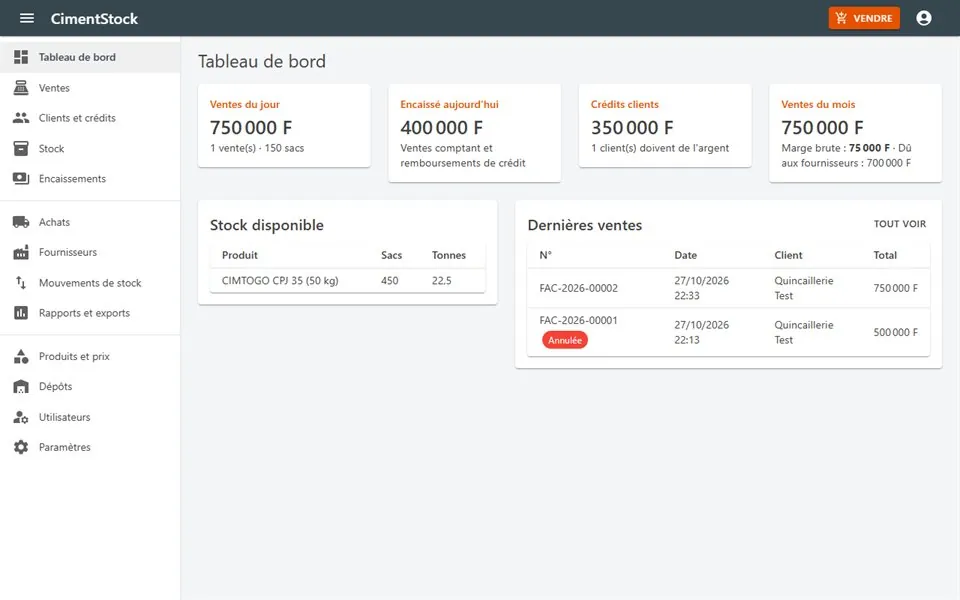
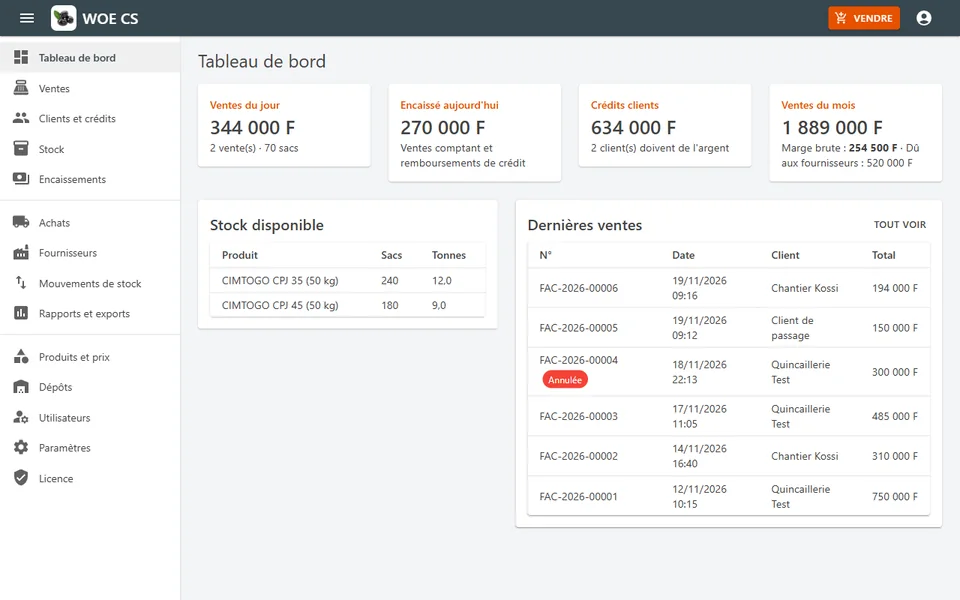
Portfolio : CimentStock devient WOE CS, ajoute la carte Lotus QS
Nouvelle capture de WOE CS, carte Lotus QS (15 000 F par mois),
ligne Fondateur à jour, page anglaise régénérée.

diff --git a/index.html b/index.html
@@ -451,7 +451,8 @@ h1,h2,h3,p,a,span{overflow-wrap:break-word}
 </div>
 <h3 class="sub" data-en="Business applications">Applications métier</h3>
 <div class="grid sites apps">
-<div class="card site"><img src="cimentstock.webp" alt="Tableau de bord de CimentStock : ventes du jour, crédits clients, stock et dernières ventes" loading="lazy" width="960" height="600"><div class="sb"><span class="st">DEKOPI GOLD</span><h3>CimentStock</h3><p data-en="The first software published by DEKOPI GOLD, my company. Purchase, sales and stock management for cement businesses: cash or credit sales, PDF invoices, weighted average cost, multiple warehouses and daily backups. Starts by itself when the PC is switched on, runs locally, with no internet needed. Free 30-day trial, then a licence at 12,000 F per month.">Premier logiciel édité par DEKOPI GOLD, ma société. Gestion des achats, ventes et stock pour les commerces de ciment : ventes comptant ou à crédit, factures PDF, coût moyen pondéré, plusieurs dépôts et sauvegarde quotidienne. Démarre tout seul à l’allumage du PC, fonctionne en local, sans internet. Essai gratuit de 30 jours, puis licence à 12 000 F par mois.</p><span class="chip">Blazor</span><span class="chip">.NET</span><span class="chip">SQLite</span><span class="chip" data-en="Business app">Application métier</span><a class="vis" href="https://wa.me/22891512041?text=Bonjour%20Pierre%2C%20je%20souhaite%20une%20d%C3%A9monstration%20de%20CimentStock." data-href-en="https://wa.me/22891512041?text=Hello%20Pierre%2C%20I%20would%20like%20a%20demo%20of%20CimentStock." target="_blank" rel="noopener" data-en="Request a demo on WhatsApp →">Demander une démo sur WhatsApp →</a></div></div>
+<div class="card site"><img src="cimentstock.webp" alt="Tableau de bord de WOE CS : ventes du jour, crédits clients, stock et dernières ventes" loading="lazy" width="960" height="600"><div class="sb"><span class="st">DEKOPI GOLD</span><h3>WOE CS</h3><p data-en="WOE CS, formerly CimentStock, is the first software published by DEKOPI GOLD, my company. Purchase, sales and stock management for cement businesses: cash or credit sales, PDF invoices, weighted average cost, multiple warehouses and daily backups. Starts by itself when the PC is switched on, runs locally, with no internet needed. Free 30-day trial, then a licence at 12,000 F per month.">WOE CS, anciennement CimentStock, est le premier logiciel édité par DEKOPI GOLD, ma société. Gestion des achats, ventes et stock pour les commerces de ciment : ventes comptant ou à crédit, factures PDF, coût moyen pondéré, plusieurs dépôts et sauvegarde quotidienne. Démarre tout seul à l’allumage du PC, fonctionne en local, sans internet. Essai gratuit de 30 jours, puis licence à 12 000 F par mois.</p><span class="chip">Blazor</span><span class="chip">.NET</span><span class="chip">SQLite</span><span class="chip" data-en="Business app">Application métier</span><a class="vis" href="https://wa.me/22891512041?text=Bonjour%20Pierre%2C%20je%20souhaite%20une%20d%C3%A9monstration%20de%20WOE%20CS." data-href-en="https://wa.me/22891512041?text=Hello%20Pierre%2C%20I%20would%20like%20a%20demo%20of%20WOE%20CS." target="_blank" rel="noopener" data-en="Request a demo on WhatsApp →">Demander une démo sur WhatsApp →</a></div></div>
+<div class="card site"><img src="lotusqs.webp" alt="Tableau de bord de Lotus QS : ventes du jour, argent encaissé, crédits clients et alerte de stock bas" loading="lazy" width="960" height="600"><div class="sb"><span class="st">DEKOPI GOLD</span><h3>Lotus QS</h3><p data-en="The second software published by DEKOPI GOLD, for hardware stores. Purchase, sales and stock management for shops with many items: reference, category and barcode on each item, sales by the metre or kilo, barcode scanning, Excel import of the catalogue, cash or credit sales, PDF invoices and daily backups. Runs locally, with no internet needed. Free 30-day trial, then a licence at 15,000 F per month.">Deuxième logiciel édité par DEKOPI GOLD, pour les quincailleries. Gestion des achats, ventes et stock des magasins qui ont beaucoup d’articles : référence, catégorie et code-barres sur chaque article, ventes au mètre ou au kilo, scan au lecteur, import Excel du catalogue, ventes comptant ou à crédit, factures PDF et sauvegarde quotidienne. Fonctionne en local, sans internet. Essai gratuit de 30 jours, puis licence à 15 000 F par mois.</p><span class="chip">Blazor</span><span class="chip">.NET</span><span class="chip">SQLite</span><span class="chip" data-en="Business app">Application métier</span><a class="vis" href="https://wa.me/22891512041?text=Bonjour%20Pierre%2C%20je%20souhaite%20une%20d%C3%A9monstration%20de%20Lotus%20QS." data-href-en="https://wa.me/22891512041?text=Hello%20Pierre%2C%20I%20would%20like%20a%20demo%20of%20Lotus%20QS." target="_blank" rel="noopener" data-en="Request a demo on WhatsApp →">Demander une démo sur WhatsApp →</a></div></div>
 <a class="card site" href="https://assimeto.pages.dev/" target="_blank" rel="noopener"><img src="assimeto.webp" alt="Trois écrans d’ASSIMETO : liste de courses, plats réalisables et fiche recette" loading="lazy" width="960" height="600"><div class="sb"><span class="st">DEKOPI GOLD</span><h3>ASSIMETO</h3><p data-en="Installable mobile app (PWA) built at DEKOPI GOLD, first for my family’s grocery shopping in Lomé: shopping list by market, supermarket and corner shop with FCFA totals, fridge and pantry stock, Togolese dishes you can cook with what is at home, and storage tips. Works offline, syncs across several phones and suggests dishes with AI.">Appli mobile installable (PWA) développée chez DEKOPI GOLD, d’abord pour les courses de ma famille à Lomé : liste par marché, supermarché et boutique avec total en FCFA, stock du frigo et de la réserve, plats togolais réalisables avec ce qu’il y a à la maison et conseils de conservation. Fonctionne sans internet, se partage entre plusieurs téléphones et propose des idées de plats par IA.</p><span class="chip">PWA</span><span class="chip">JavaScript</span><span class="chip">Firebase</span><span class="chip" data-en="AI (Claude)">IA (Claude)</span><span class="chip" data-en="Offline">Hors ligne</span><span class="vis" data-en="View the app →">Voir l’appli →</span></div></a>
 </div>
 <h3 class="sub" data-en="Digital products">Produits numériques</h3>
@@ -472,7 +473,7 @@ h1,h2,h3,p,a,span{overflow-wrap:break-word}
 <div class="head"><small data-en="Experience">Parcours</small><h2 data-en="Experience and education">Expérience et formation</h2></div>
 <div class="tl">
 <div><h3 data-en="Tax auditor — OTR">Vérificateur fiscal — OTR</h3><small data-en="Lomé · Sep 2026 – present">Lomé · sept. 2026 – aujourd’hui</small><p data-en="Accounting audits and review of companies’ tax returns.">Vérification de comptabilité et contrôle des déclarations fiscales des entreprises.</p></div>
-<div><h3 data-en="Founder — DEKOPI GOLD">Fondateur — DEKOPI GOLD</h3><small data-en="Lomé · 2025 – present">Lomé · 2025 – aujourd’hui</small><p data-en="Tech company publishing CimentStock, purchase, sales and stock management software for cement businesses, and ASSIMETO, a grocery and home stock app.">Entreprise tech qui édite CimentStock, logiciel de gestion des achats, ventes et stocks pour les commerces de ciment, et ASSIMETO, appli de courses et de stock pour la maison.</p></div>
+<div><h3 data-en="Founder — DEKOPI GOLD">Fondateur — DEKOPI GOLD</h3><small data-en="Lomé · 2025 – present">Lomé · 2025 – aujourd’hui</small><p data-en="Tech company publishing WOE CS (formerly CimentStock) and Lotus QS, purchase, sales and stock management software for cement businesses and hardware stores, and ASSIMETO, a grocery and home stock app.">Entreprise tech qui édite WOE CS (ex-CimentStock) et Lotus QS, logiciels de gestion des achats, ventes et stocks pour les commerces de ciment et les quincailleries, et ASSIMETO, appli de courses et de stock pour la maison.</p></div>
 <div><h3 data-en="IT Focal Point, tax filing management — OTR">Point focal IT, gestion de déclaration fiscale — OTR</h3><small data-en="Kara · Feb 2025 – Sep 2026">Kara · févr. 2025 – sept. 2026</small><p data-en="Main technical contact between business teams and the IT department.">Interlocuteur technique entre les équipes métier et la direction informatique.</p></div>
 <div><h3 data-en="IT support technician — OTR">Technicien de support informatique — OTR</h3><small data-en="Kara · Jan 2025 – Sep 2026">Kara · janv. 2025 – sept. 2026</small><p data-en="User support, network cabling, preventive and corrective maintenance of the equipment.">Support utilisateurs, câblage réseau, maintenance préventive et curative du parc.</p></div>
 <div><h3 data-en="Freelance web developer — IMMOBTRADER">Développeur web freelance — IMMOBTRADER</h3><small data-en="France, remote · Jan 2024 – present">France, à distance · janv. 2024 – aujourd’hui</small><p data-en="Front-end and back-end design and maintenance of an international real estate platform.">Conception et maintenance front-end et back-end d’une plateforme immobilière internationale.</p></div>

diff --git a/en/index.html b/en/index.html
@@ -451,7 +451,8 @@ h1,h2,h3,p,a,span{overflow-wrap:break-word}
 </div>
 <h3 class="sub">Business applications</h3>
 <div class="grid sites apps">
-<div class="card site"><img src="../cimentstock.webp" alt="CimentStock dashboard: daily sales, customer credit, stock and latest sales" loading="lazy" width="960" height="600"><div class="sb"><span class="st">DEKOPI GOLD</span><h3>CimentStock</h3><p>The first software published by DEKOPI GOLD, my company. Purchase, sales and stock management for cement businesses: cash or credit sales, PDF invoices, weighted average cost, multiple warehouses and daily backups. Starts by itself when the PC is switched on, runs locally, with no internet needed. Free 30-day trial, then a licence at 12,000 F per month.</p><span class="chip">Blazor</span><span class="chip">.NET</span><span class="chip">SQLite</span><span class="chip">Business app</span><a class="vis" href="https://wa.me/22891512041?text=Hello%20Pierre%2C%20I%20would%20like%20a%20demo%20of%20CimentStock." target="_blank" rel="noopener">Request a demo on WhatsApp →</a></div></div>
+<div class="card site"><img src="../cimentstock.webp" alt="WOE CS dashboard: daily sales, customer credit, stock and latest sales" loading="lazy" width="960" height="600"><div class="sb"><span class="st">DEKOPI GOLD</span><h3>WOE CS</h3><p>WOE CS, formerly CimentStock, is the first software published by DEKOPI GOLD, my company. Purchase, sales and stock management for cement businesses: cash or credit sales, PDF invoices, weighted average cost, multiple warehouses and daily backups. Starts by itself when the PC is switched on, runs locally, with no internet needed. Free 30-day trial, then a licence at 12,000 F per month.</p><span class="chip">Blazor</span><span class="chip">.NET</span><span class="chip">SQLite</span><span class="chip">Business app</span><a class="vis" href="https://wa.me/22891512041?text=Hello%20Pierre%2C%20I%20would%20like%20a%20demo%20of%20WOE%20CS." target="_blank" rel="noopener">Request a demo on WhatsApp →</a></div></div>
+<div class="card site"><img src="../lotusqs.webp" alt="Lotus QS dashboard: daily sales, cash collected, customer credit and low-stock alert" loading="lazy" width="960" height="600"><div class="sb"><span class="st">DEKOPI GOLD</span><h3>Lotus QS</h3><p>The second software published by DEKOPI GOLD, for hardware stores. Purchase, sales and stock management for shops with many items: reference, category and barcode on each item, sales by the metre or kilo, barcode scanning, Excel import of the catalogue, cash or credit sales, PDF invoices and daily backups. Runs locally, with no internet needed. Free 30-day trial, then a licence at 15,000 F per month.</p><span class="chip">Blazor</span><span class="chip">.NET</span><span class="chip">SQLite</span><span class="chip">Business app</span><a class="vis" href="https://wa.me/22891512041?text=Hello%20Pierre%2C%20I%20would%20like%20a%20demo%20of%20Lotus%20QS." target="_blank" rel="noopener">Request a demo on WhatsApp →</a></div></div>
 <a class="card site" href="https://assimeto.pages.dev/" target="_blank" rel="noopener"><img src="../assimeto.webp" alt="Three ASSIMETO screens: shopping list, dishes you can cook and recipe card" loading="lazy" width="960" height="600"><div class="sb"><span class="st">DEKOPI GOLD</span><h3>ASSIMETO</h3><p>Installable mobile app (PWA) built at DEKOPI GOLD, first for my family’s grocery shopping in Lomé: shopping list by market, supermarket and corner shop with FCFA totals, fridge and pantry stock, Togolese dishes you can cook with what is at home, and storage tips. Works offline, syncs across several phones and suggests dishes with AI.</p><span class="chip">PWA</span><span class="chip">JavaScript</span><span class="chip">Firebase</span><span class="chip">AI (Claude)</span><span class="chip">Offline</span><span class="vis">View the app →</span></div></a>
 </div>
 <h3 class="sub">Digital products</h3>
@@ -472,7 +473,7 @@ h1,h2,h3,p,a,span{overflow-wrap:break-word}
 <div class="head"><small>Experience</small><h2>Experience and education</h2></div>
 <div class="tl">
 <div><h3>Tax auditor — OTR</h3><small>Lomé · Sep 2026 – present</small><p>Accounting audits and review of companies’ tax returns.</p></div>
-<div><h3>Founder — DEKOPI GOLD</h3><small>Lomé · 2025 – present</small><p>Tech company publishing CimentStock, purchase, sales and stock management software for cement businesses, and ASSIMETO, a grocery and home stock app.</p></div>
+<div><h3>Founder — DEKOPI GOLD</h3><small>Lomé · 2025 – present</small><p>Tech company publishing WOE CS (formerly CimentStock) and Lotus QS, purchase, sales and stock management software for cement businesses and hardware stores, and ASSIMETO, a grocery and home stock app.</p></div>
 <div><h3>IT Focal Point, tax filing management — OTR</h3><small>Kara · Feb 2025 – Sep 2026</small><p>Main technical contact between business teams and the IT department.</p></div>
 <div><h3>IT support technician — OTR</h3><small>Kara · Jan 2025 – Sep 2026</small><p>User support, network cabling, preventive and corrective maintenance of the equipment.</p></div>
 <div><h3>Freelance web developer — IMMOBTRADER</h3><small>France, remote · Jan 2024 – present</small><p>Front-end and back-end design and maintenance of an international real estate platform.</p></div>

diff --git a/_build/build-en.py b/_build/build-en.py
@@ -86,7 +86,8 @@ ALTS={
 'Capture du site BrendaSTYLE : portrait de Brenda en robe noire dans une arche, titre « La femme qui rayonne » et boutons Voir la collection et Notre histoire':'Screenshot of the BrendaSTYLE website: portrait of Brenda in a black dress under an arch, headline “La femme qui rayonne” and buttons View the collection and Our story',
 'Capture du site Dongshoes : logo Dong, mocassins bicolores en cuir sur du bois, devise « Ambition, excellence, audace » et bouton Commander sur WhatsApp':'Screenshot of the Dongshoes website: Dong logo, two-tone leather loafers on wood, motto “Ambition, excellence, audace” and an Order on WhatsApp button',
 'Capture du site JonasClean':'Screenshot of the JonasClean website',
-'Tableau de bord de CimentStock : ventes du jour, crédits clients, stock et dernières ventes':'CimentStock dashboard: daily sales, customer credit, stock and latest sales',
+'Tableau de bord de WOE CS : ventes du jour, crédits clients, stock et dernières ventes':'WOE CS dashboard: daily sales, customer credit, stock and latest sales',
+'Tableau de bord de Lotus QS : ventes du jour, argent encaissé, crédits clients et alerte de stock bas':'Lotus QS dashboard: daily sales, cash collected, customer credit and low-stock alert',
 'Trois écrans d’ASSIMETO : liste de courses, plats réalisables et fiche recette':'Three ASSIMETO screens: shopping list, dishes you can cook and recipe card',
 'Affiche du guide « Garde la flamme, même à distance » : guide PDF pour hommes, 5 leçons et 2 bonus, couverture du guide et mention Disponible sur Chariow':'Poster for the guide “Garde la flamme, même à distance”: PDF guide for men, 5 lessons and 2 bonuses, the guide cover and the mention Available on Chariow',
 'Logo Pierre Kossi DEGBOEVI':'Pierre Kossi DEGBOEVI logo',
